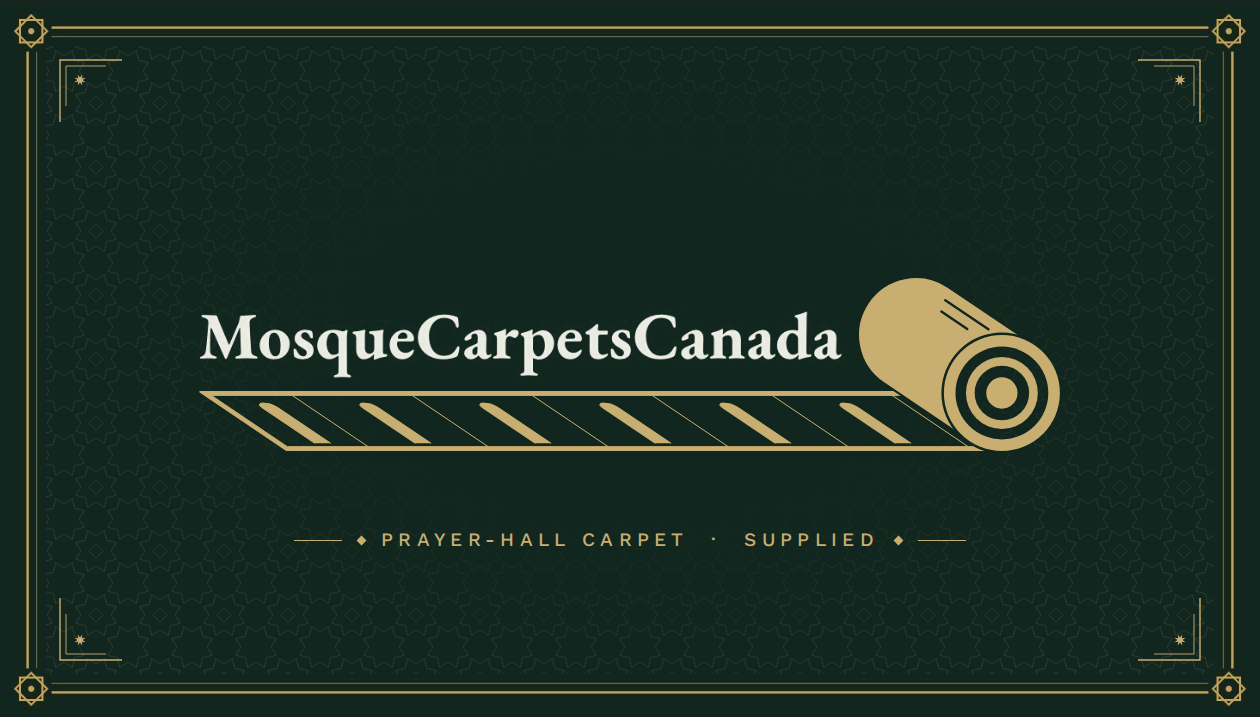
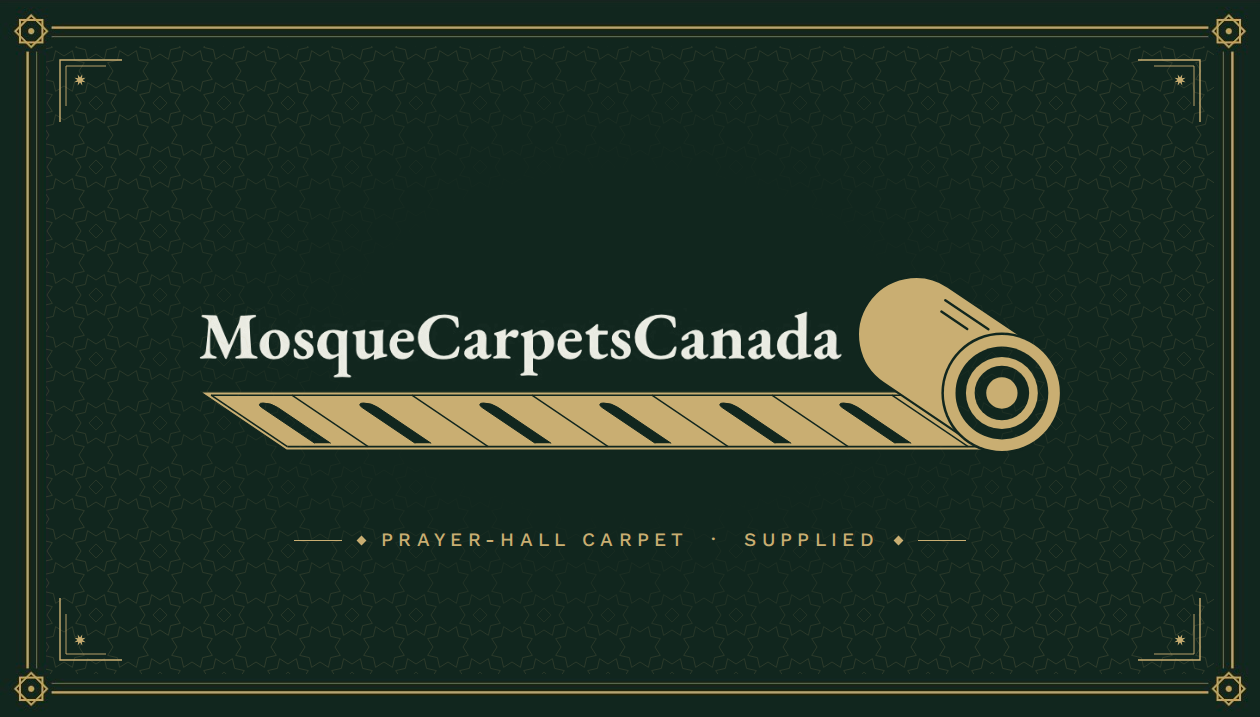
Business card: carpet solid gold with green cut lines, matching the roll
Claude-Session: https://claude.ai/code/session_01PzvNP8taBEbNow6tuZd8Hp

Changed region(s): [[0.1548, 0.5216, 0.7738, 0.6444]]

diff --git a/docs/business-card/README.md b/docs/business-card/README.md
@@ -29,7 +29,8 @@ The whole group (name, carpet, roll and tagline) is centred left to right and si
 | Name | HEX |
 |---|---|
 | Card green (background) | #11261E |
-| Gold (carpet border, arches, roll, tagline, pattern) | #C9AE72 |
+| Gold (carpet and roll, solid; tagline; pattern) | #C9AE72 |
+| Cut lines on the carpet and roll (border, rows, arches, highlights) | card green #11261E |
 | Cream (name) | #EEEFE6 |
 
 ## Check before printing
